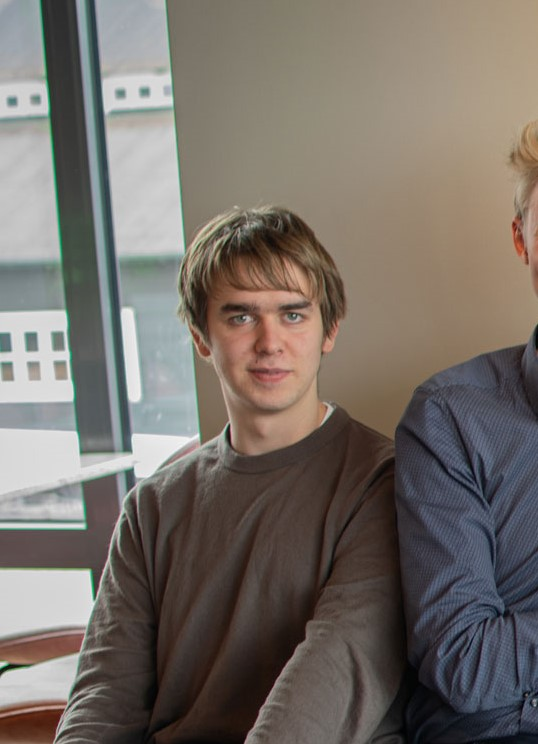
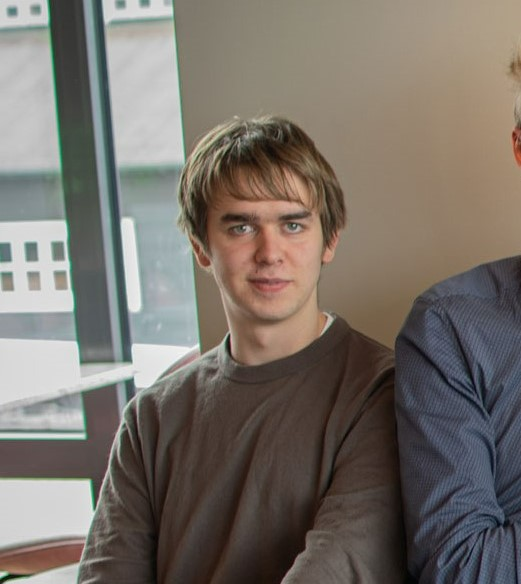
Added everyones images

diff --git a/index.html b/index.html
@@ -84,68 +84,67 @@
               <br>
               <h2 class="center" title="Elever">Elever</h2>
               <div class="container-width student-cards">
-    
-                <a href="induvidual-pages/hugo.html">
+                <a href="Individual-pages/tim.html">
                   <div class="student">
-                    <img src="images/Hugo.jpg" alt="Picture of the student Hugo">                
+                    <img src="images/Tim.jpg" alt="Bild av eleven Tim Löfstedt">                
                   </div>
-                  <h3 class="center student-name">Hugo</h3>
+                  <h3 class="center student-name">Tim Löfstedt</h3>
                 </a>
-                <a href="induvidual-pages/hugo.html">
+                <a href="Individual-pages/anna.html">
                   <div class="student">
-                    <img src="images/Hugo.jpg" alt="Picture of the student Hugo">                
+                    <img src="images/anna-portrait.jpg" alt="Bild av eleven Anna">                
                   </div>
-                  <h3 class="center student-name">Hugo</h3>
+                  <h3 class="center student-name">Anna Svennson</h3>
                 </a>
-                <a href="induvidual-pages/hugo.html">
+                <a href="Individual-pages/benjamin.html">
                   <div class="student">
-                    <img src="images/Hugo.jpg" alt="Picture of the student Hugo">                
+                    <img src="images/benjamin.jpg" alt="Bild av eleven Benjamin">                
                   </div>
-                  <h3 class="center student-name">Hugo</h3>
+                  <h3 class="center student-name">Benjamin Bergstrand</h3>
                 </a>
-                <a href="induvidual-pages/hugo.html">
+                <a href="Individual-pages/hugo.html">
                   <div class="student">
-                    <img src="images/Hugo.jpg" alt="Picture of the student Hugo">                
+                    <img src="images/Hugo.jpg" alt="Bild av eleven Hugo">                
                   </div>
-                  <h3 class="center student-name">Hugo</h3>
+                  <h3 class="center student-name">Hugo Sjöholm</h3>
                 </a>
-                <a href="induvidual-pages/hugo.html">
+                <a href="Individual-pages/isaac.html">
                   <div class="student">
-                    <img src="images/Hugo.jpg" alt="Picture of the student Hugo">                
+                    <img src="images/Hugo.jpg" alt="Bild av eleven Isaac">                
                   </div>
-                  <h3 class="center student-name">Hugo</h3>
+                  <h3 class="center student-name">Isaac Högfelt</h3>
                 </a>
-                <a href="induvidual-pages/hugo.html">
+                <a href="Individual-pages/isac.html">
                   <div class="student">
-                    <img src="images/Hugo.jpg" alt="Picture of the student Hugo">                
+                    <img src="images/Isak.png" alt="Bild av eleven Isac">                
                   </div>
-                  <h3 class="center student-name">Hugo</h3>
+                  <h3 class="center student-name">Isac Alm</h3>
                 </a>
-                <a href="induvidual-pages/hugo.html">
+                <a href="Individual-pages/lefteris.html">
                   <div class="student">
-                    <img src="images/Hugo.jpg" alt="Picture of the student Hugo">                
+                    <img src="images/Hugo.jpg" alt="Bild av eleven Lefterris">                
                   </div>
-                  <h3 class="center student-name">Hugo</h3>
+                  <h3 class="center student-name">Lefteris Avramidis</h3>
                 </a>
-                <a href="induvidual-pages/hugo.html">
+                <a href="Individual-pages/leo.html">
                   <div class="student">
-                    <img src="images/Hugo.jpg" alt="Picture of the student Hugo">                
+                    <img src="images/Leo.jpg" alt="Bild av eleven Leo">                
                   </div>
-                  <h3 class="center student-name">Hugo</h3>
+                  <h3 class="center student-name">Leo Kordelin Öhlander</h3>
                 </a>
-                <a href="induvidual-pages/hugo.html">
+                <a href="Individual-pages/sakda.html">
                   <div class="student">
-                    <img src="images/Hugo.jpg" alt="Picture of the student Hugo">                
+                    <img src="images/sakda.jpg" alt="Bild av eleven Sakda">                
                   </div>
-                  <h3 class="center student-name">Hugo</h3>
+                  <h3 class="center student-name">Sakda Saleephan</h3>
                 </a>
-                <a href="induvidual-pages/hugo.html">
+                <a href="">
                   <div class="student">
-                    <img src="images/Hugo.jpg" alt="Picture of the student Hugo">                
+                    <img class="missing-student" src="Projects/project-images/profile.png" alt="Bild av eleven Adrian">                
                   </div>
-                  <h3 class="center student-name">Hugo</h3>
+                  <h3 class="center student-name">Adrian</h3>
                 </a>
-                
+
               </div>
               <br>
               <br>

diff --git a/styles.css b/styles.css
@@ -154,6 +154,10 @@ h2 {
 }
 
 /*students------------*/
+.missing-student {
+  filter: opacity(0.25);
+}
+
 .student-cards a {
   background-color: white;
   padding: 1.1rem 1.1rem 2rem 1.1rem;
@@ -187,7 +191,8 @@ h2 {
   width: 300px; /* Set the desired width */
   aspect-ratio: 4/5; /* Set the desired aspect ratio */
   overflow: hidden; /* Crop the content that exceeds the container */
-
+  transform: translateX(-50%);
+  left: 50%;
 }
 .student:hover {
   
@@ -196,12 +201,14 @@ h2 {
 .img-container {
 
 }
+
 .student img {
   position: relative;
   transform: translateX(-50%);
   left: 50%;
   top: 0;
   max-width: 450px;
+  height: 100%;
 }
 .student-name {
   position: relative;
